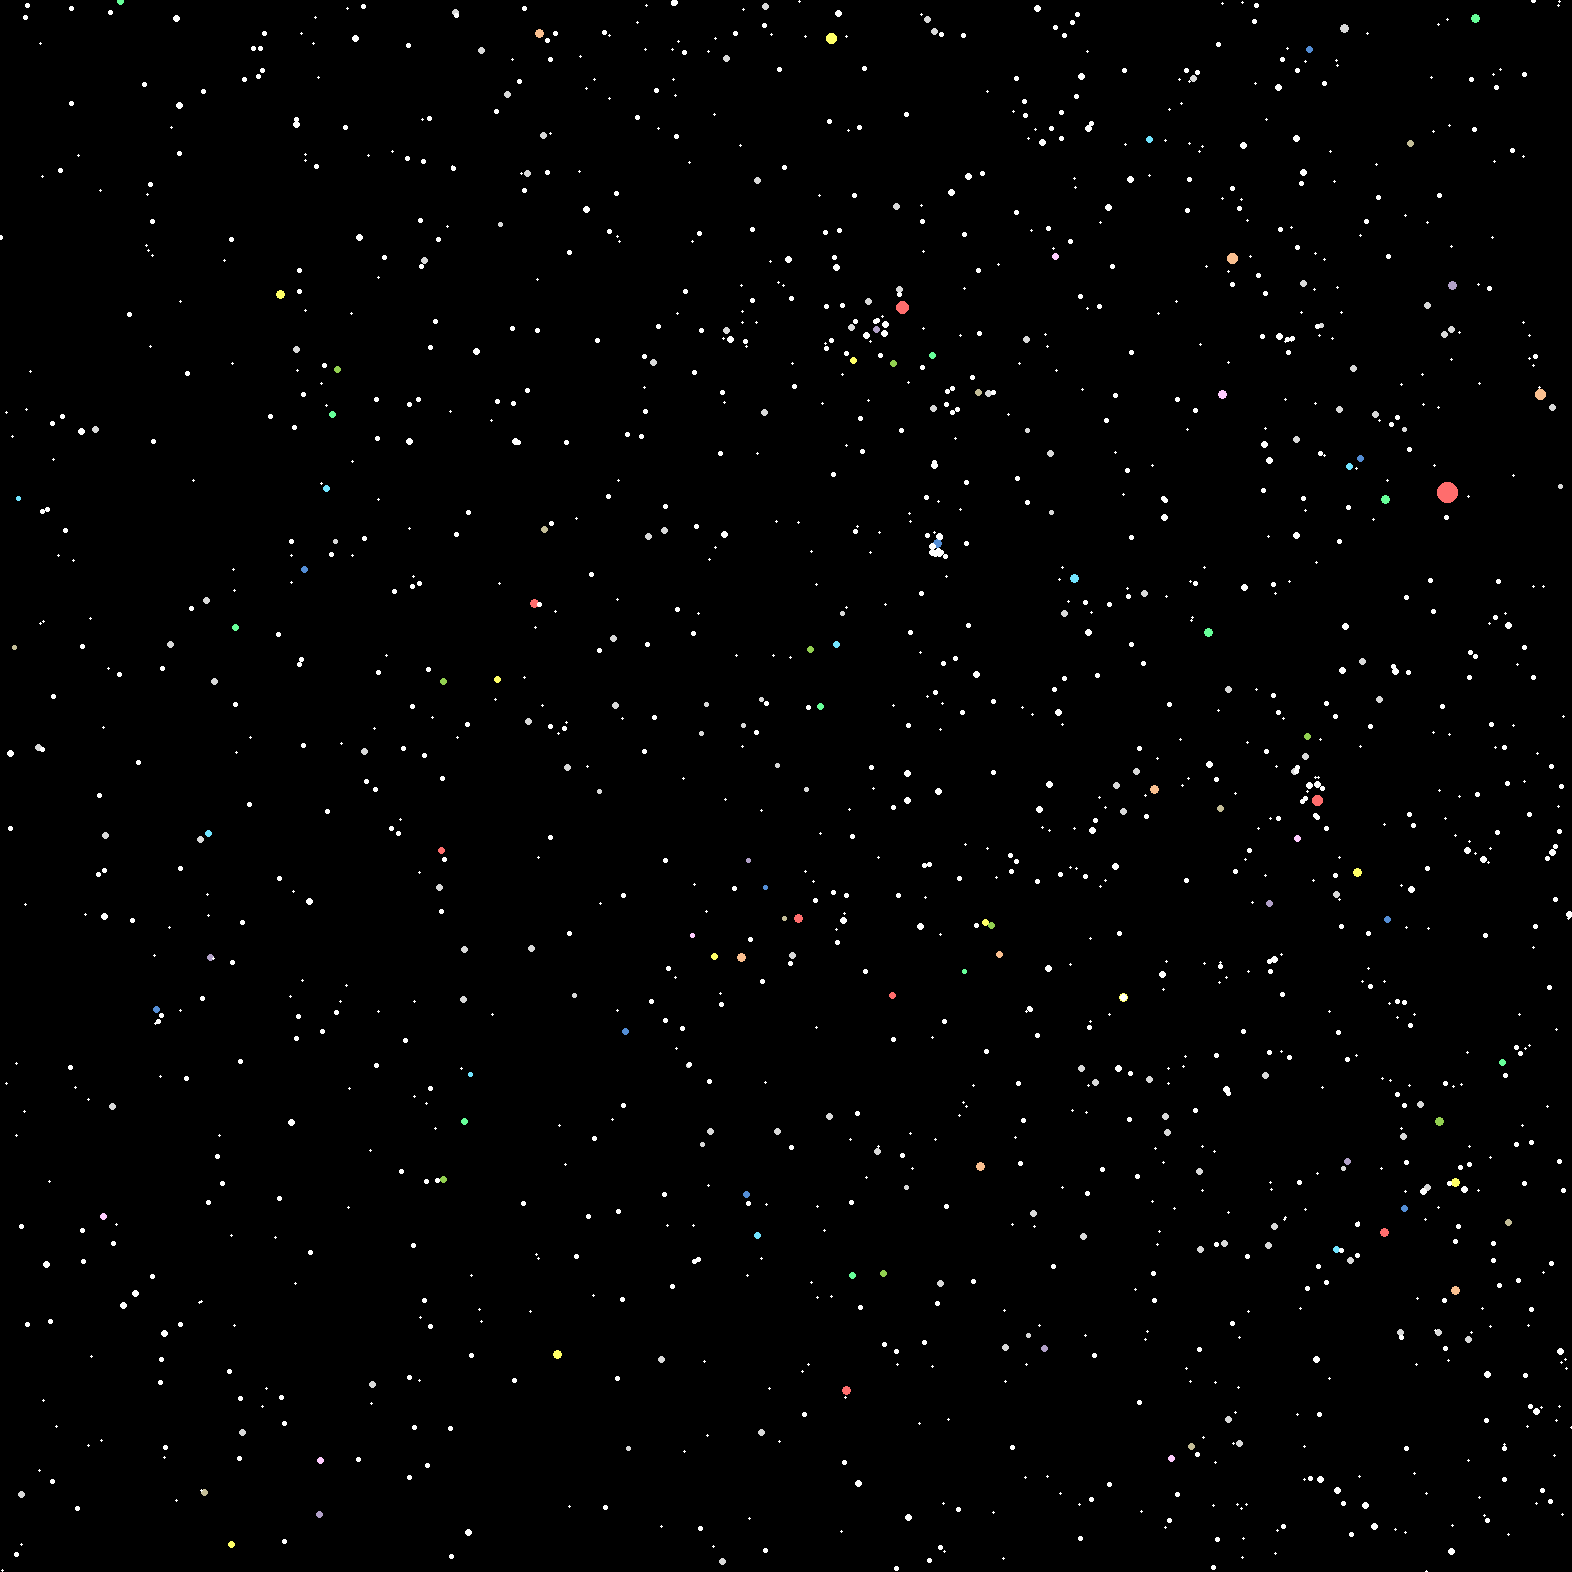
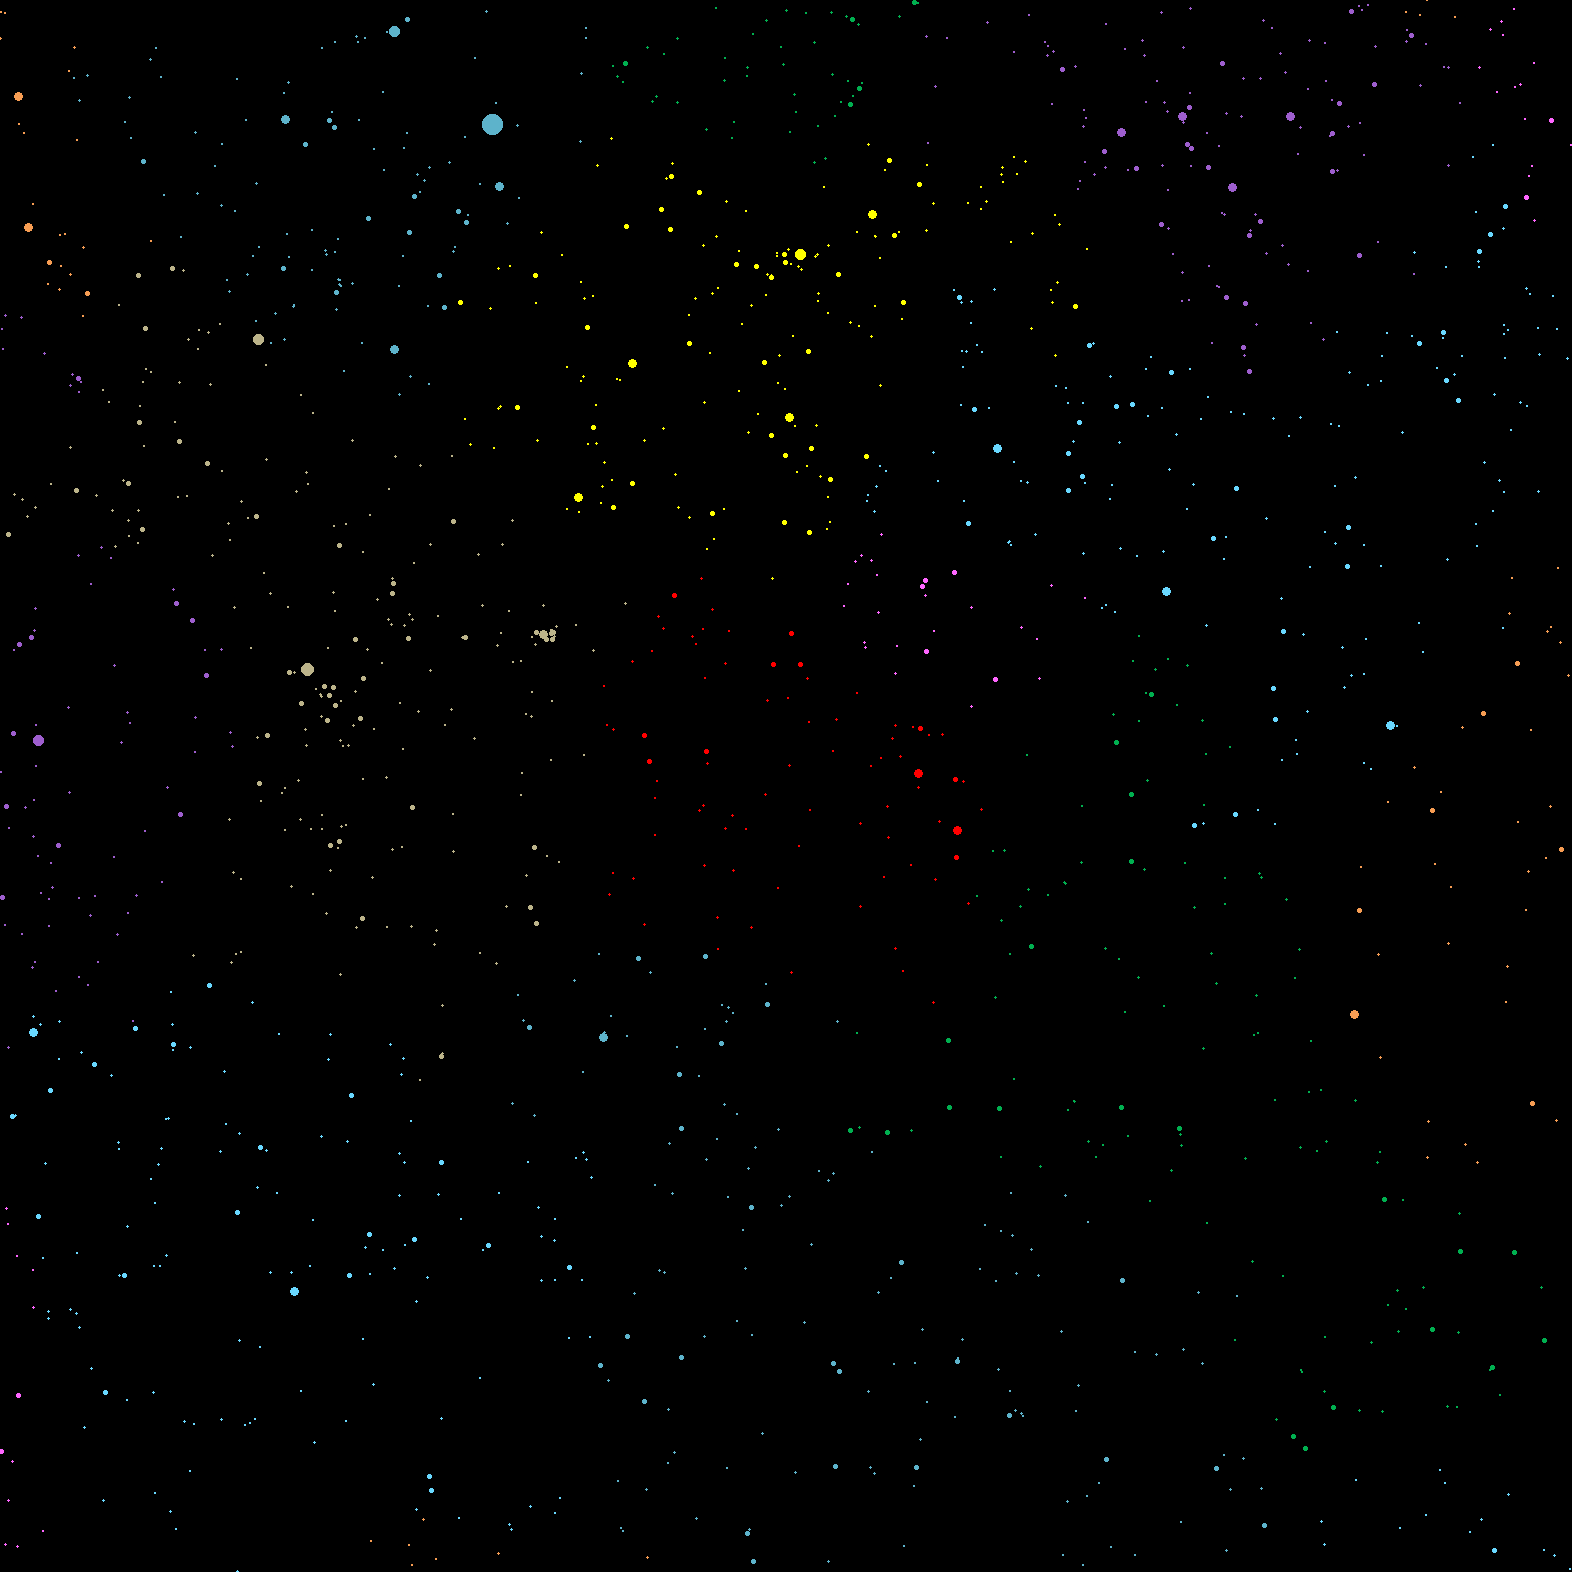
ajuste de tamanhos; rotação das imagens geradas; correção de bugs

diff --git a/Uranographia.py b/Uranographia.py
@@ -38,14 +38,14 @@ class Uranographia:
         if reference >= 0: self.rotate(reference)
         match option:
             case 0: self.showRealistic()
-            case 1: self.showDesignation()
+            case 1: self.showDesignation(reference)
             case 2: self.showConstellation()
         return None
     
     def showRealistic(self):
         canva = ImageMethods.create()
         for c in self.sections.values():
-            for s in c.set.values():
+            for s in reversed(c.set.values()):
                 if not s.visivel: continue
                 if not 0 <= s.posX < 1572: continue
                 if not 0 <= s.posY < 1572: continue
@@ -53,21 +53,25 @@ class Uranographia:
                 ImageMethods.drawCircle(canva, s.posX, s.posY, s.tamanho, r, g, b)
         canva.save(f"{os.path.dirname(__file__)}/out.png")
     
-    def showDesignation(self):
+    def showDesignation(self, reference):
         canva = ImageMethods.create()
         for c in self.sections.values():
-            for s in c.set.values():
+            for s in reversed(c.set.values()):
                 if not s.visivel: continue
                 if not 0 <= s.posX < 1572: continue
                 if not 0 <= s.posY < 1572: continue
-                r, g, b = ColorMethods.hex_to_tuple(s.rgb_designacao)
+                if reference == c.index:
+                    r, g, b = ColorMethods.hex_to_tuple(s.rgb_designacao)
+                else:
+                    r, g, b = ColorMethods.hex_to_tuple("FFFFFF")
                 ImageMethods.drawCircle(canva, s.posX, s.posY, s.tamanho, r, g, b)
         canva.save(f"{os.path.dirname(__file__)}/out.png")
     
     def showConstellation(self):
         canva = ImageMethods.create()
         for c in self.sections.values():
-            for s in c.set.values():
+            c.color()
+            for s in reversed(c.set.values()):
                 if not s.visivel: continue
                 if not 0 <= s.posX < 1572: continue
                 if not 0 <= s.posY < 1572: continue
@@ -104,4 +108,4 @@ if __name__ == "__main__":
                                    magnitude        = float(e[5])
                               ))
     
-    uranographia.show(1, 7)
+    uranographia.show(2, 7)

diff --git a/ImageMethods.py b/ImageMethods.py
@@ -25,8 +25,18 @@ class ImageMethods:
         assert 0 <= r < 256
         assert 0 <= g < 256
         assert 0 <= b < 256
+        # if size == 1: size = 0.5
+        # if size == 2: size = 1.0
+        # if size == 3: size = 1.5
+        # if size == 4: size = 2.0
+        # if size == 5
         draw = ImageDraw.Draw(image)
-        draw.ellipse((x - size, y - size, x + size, y + size), fill=(r, g, b))
+        if size < 3:
+            draw.ellipse((y - size / 2, 1571 - x - size / 2, y + size / 2, 1571 - x + size / 2), fill=(r, g, b))
+        elif size < 4:
+            draw.ellipse((y - size / 1.5, 1571 - x - size / 1.5, y + size / 1.5, 1571 - x + size / 1.5), fill=(r, g, b))
+        else:
+            draw.ellipse((y - size, 1571 - x - size, y + size, 1571 - x + size), fill=(r, g, b))
         return None
     
     @staticmethod

diff --git a/Constellation.py b/Constellation.py
@@ -25,7 +25,7 @@ class Constellation:
         return None
     
     def color(self):
-        for s in self.set: s.color(self.rgb)
+        for s in self.set.values(): s.color(self.rgb)
         return None
     
 
